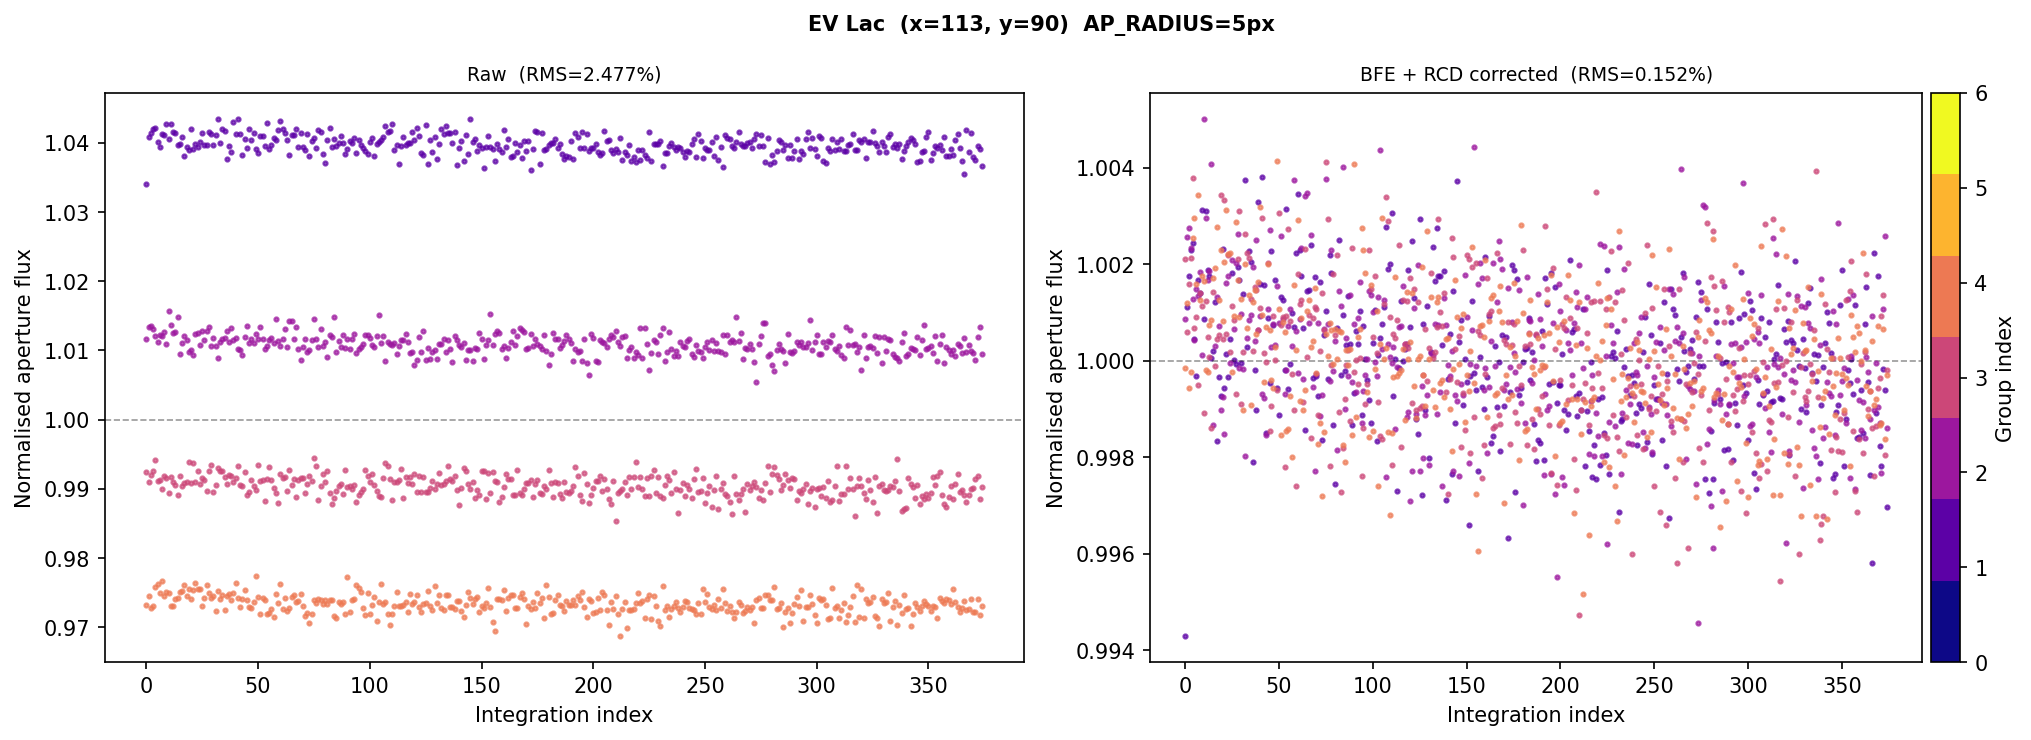
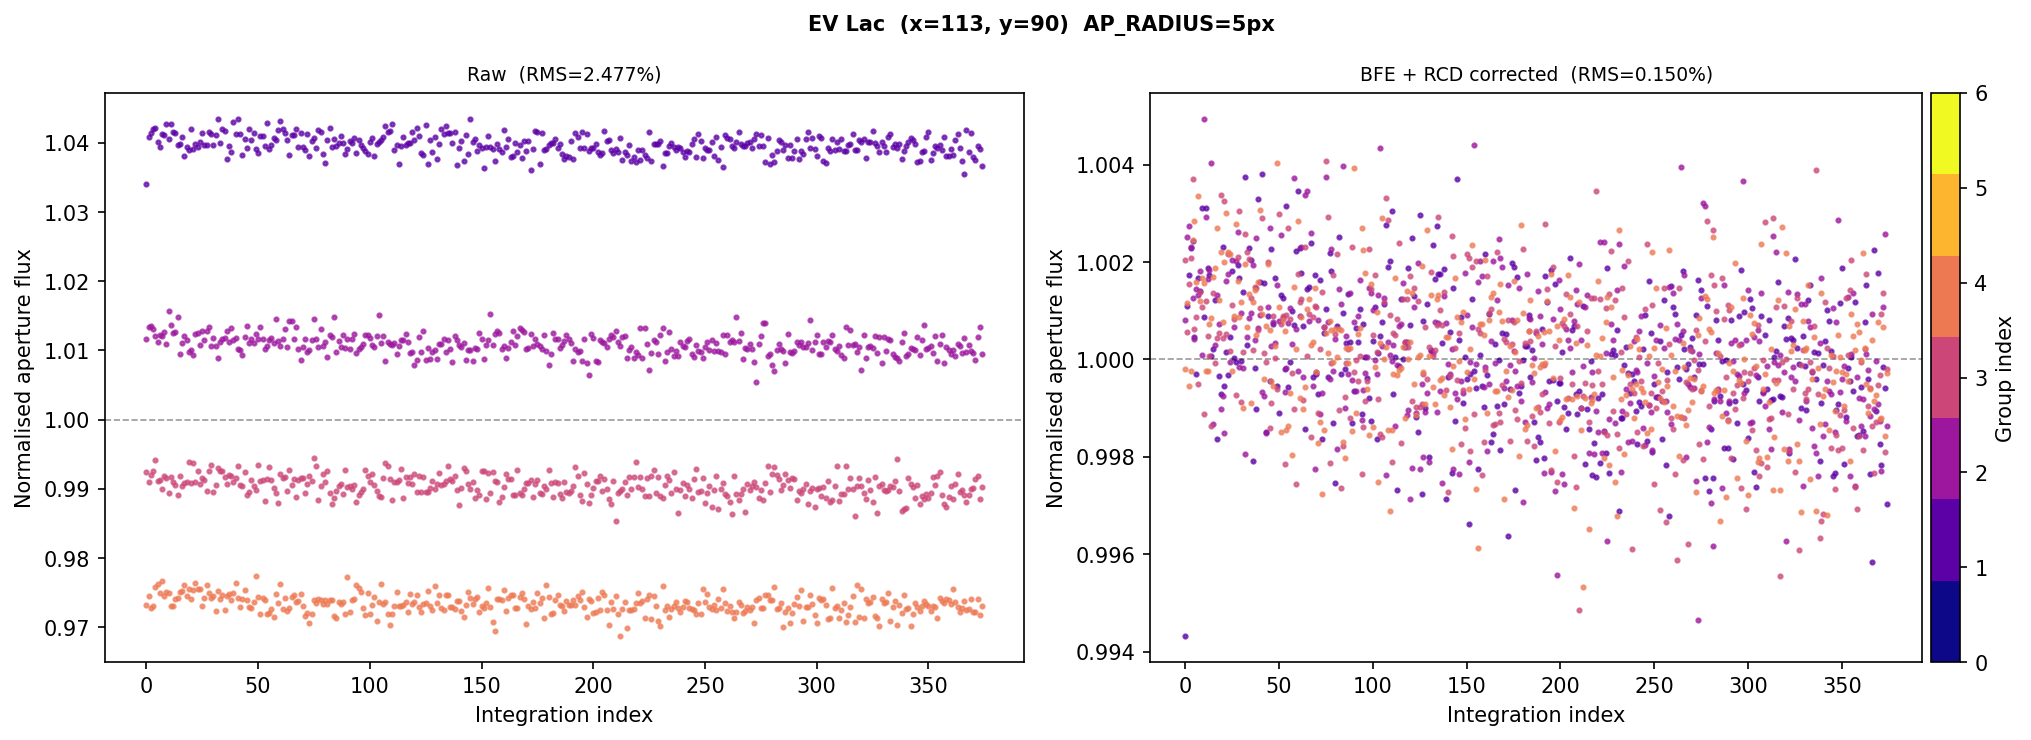
Iterative flux-conserving BFE correction, SNR-based fit_r, weighted default alpha

diff --git a/ramp_correction.py b/ramp_correction.py
@@ -271,9 +271,9 @@ def correct_reset_decay(cube, method='median', mask=None, mask_dilation=0,
     return cube_cor
 
 
-def fit_bfe_params(cube, alpha_bfe=2.783, bg_mask=None, sci_mask=None,
+def fit_bfe_params(cube, alpha_bfe=2.797, bg_mask=None, sci_mask=None,
                    bfe_early_groups=None, bfe_late_groups=None,
-                   ap_radius=5, cut=20, fit_r=10, verbose=False):
+                   ap_radius=5, cut=20, fit_r=None, verbose=False):
     """
     Find the brightest source in the image and fit A_bfe via the forward model.
 
@@ -420,40 +420,74 @@ def fit_bfe_params(cube, alpha_bfe=2.783, bg_mask=None, sci_mask=None,
     noise_diff = np.clip(noise_diff, noise_diff[noise_diff > 0].min() * 0.1, None)
 
     yy_c, xx_c = np.mgrid[:2*cut+1, :2*cut+1]
-    fit_mask = np.sqrt((yy_c - cut)**2 + (xx_c - cut)**2) <= fit_r
+    r_map_c = np.sqrt((yy_c - cut)**2 + (xx_c - cut)**2)
+
+    if fit_r is None:
+        snr_profile = np.array([
+            np.mean(np.abs(obs_diff[np.round(r_map_c).astype(int) == ri])) /
+            np.mean(noise_diff[np.round(r_map_c).astype(int) == ri])
+            for ri in range(1, cut)
+        ])
+        above = np.where(snr_profile > 2.0)[0]
+        fit_r = max(5, int(above[-1]) + 1) if len(above) > 0 else 5
+        if verbose:
+            print(f'  Auto fit_r = {fit_r} px (SNR-based)')
+
+    fit_mask = r_map_c <= fit_r
 
     ii, jj = np.mgrid[-kh:kh+1, -kh:kh+1].astype(float)
     r = np.sqrt(ii**2 + jj**2)
-    with np.errstate(divide='ignore', invalid='ignore'):
-        K = np.where(r > 0, -1.0 / r**alpha_bfe, 0.0)
-    K[kh, kh] = -K.sum()
 
-    def _simulate(A_bfe_val):
+    def _make_kernel(al):
+        with np.errstate(divide='ignore', invalid='ignore'):
+            Kk = np.where(r > 0, -1.0 / r**al, 0.0)
+        Kk[kh, kh] = -Kk.sum()
+        return Kk
+
+    def _simulate(A_bfe_val, al=alpha_bfe):
+        Kk = _make_kernel(al)
         Q = np.zeros((nyc, nxc))
         grads_s = np.zeros((n_grads, nyc, nxc))
         for g in range(n_grads):
             tg = rate_c + Adec_c * np.exp(-g / tau)
             if g == 0:
                 tg = tg - delta_c
-            KQ = fftconvolve(Q, K, mode='same')
+            KQ = fftconvolve(Q, Kk, mode='same')
             grads_s[g] = tg * (1.0 - A_bfe_val * KQ)
             Q += tg
         return grads_s
 
-    def _objective(log_A):
-        grads_s = _simulate(10**log_A)
-        sim_diff = _cutout(grads_s, bfe_late_groups) - _cutout(grads_s, bfe_early_groups)
-        return np.sum((((sim_diff - obs_diff) / noise_diff)[fit_mask])**2)
+    if alpha_bfe is None:
+        from scipy.optimize import minimize as _minimize
+        alpha0 = 2.797
 
-    result = minimize_scalar(_objective, bounds=(-9, -4), method='bounded')
-    A_bfe_fit = 10**result.x
-    if verbose:
-        print(f'  A_bfe = {A_bfe_fit:.4e}  (alpha fixed at {alpha_bfe})')
+        def _objective_2d(p):
+            log_A, al = p
+            grads_s = _simulate(10**log_A, al)
+            sim_diff = _cutout(grads_s, bfe_late_groups) - _cutout(grads_s, bfe_early_groups)
+            return np.sum((((sim_diff - obs_diff) / noise_diff)[fit_mask])**2)
 
-    return A_bfe_fit, sx, sy
+        res = _minimize(_objective_2d, x0=[np.log10(1e-6), alpha0], method='Powell',
+                        options={'xtol': 1e-8, 'ftol': 1e-12, 'maxiter': 50000})
+        log_A_fit, alpha_fit = res.x
+        A_bfe_fit = 10**log_A_fit
+        if verbose:
+            print(f'  A_bfe = {A_bfe_fit:.4e}  alpha = {alpha_fit:.4f}  (both fitted)')
+        return A_bfe_fit, alpha_fit, sx, sy
+    else:
+        def _objective(log_A):
+            grads_s = _simulate(10**log_A)
+            sim_diff = _cutout(grads_s, bfe_late_groups) - _cutout(grads_s, bfe_early_groups)
+            return np.sum((((sim_diff - obs_diff) / noise_diff)[fit_mask])**2)
+
+        result = minimize_scalar(_objective, bounds=(-9, -4), method='bounded')
+        A_bfe_fit = 10**result.x
+        if verbose:
+            print(f'  A_bfe = {A_bfe_fit:.4e}  (alpha fixed at {alpha_bfe})')
+        return A_bfe_fit, sx, sy
 
 
-def correct_bfe_rcd(cube, A_bfe=1.035e-6, alpha_bfe=2.783,
+def correct_bfe_rcd(cube, A_bfe=1.035e-6, alpha_bfe=2.797,
                     bg_mask=None, late_groups=None, verbose=False,
                     fit_bfe=False, sci_mask=None,
                     bfe_early_groups=None, bfe_late_groups=None,
@@ -527,14 +561,20 @@ def correct_bfe_rcd(cube, A_bfe=1.035e-6, alpha_bfe=2.783,
     if fit_bfe:
         if verbose:
             print('Fitting A_bfe from brightest source...')
-        A_bfe, _sx, _sy = fit_bfe_params(
-            cube, alpha_bfe=alpha_bfe, bg_mask=bg_mask, sci_mask=sci_mask,
+        fit_result = fit_bfe_params(
+            cube, alpha_bfe=alpha_bfe,
+            bg_mask=bg_mask, sci_mask=sci_mask,
             bfe_early_groups=bfe_early_groups, bfe_late_groups=bfe_late_groups,
             ap_radius=ap_radius, cut=cut, fit_r=fit_r, verbose=verbose)
+        A_bfe, _sx, _sy = fit_result
         if verbose:
             print(f'Using fitted A_bfe={A_bfe:.4e} at x={_sx}, y={_sy}')
 
-    # Step 1: causal BFE inversion over all gradients
+    # Step 1: causal iterative BFE correction — flux conserving
+    # Forward model: grad_obs = true_grad - A * K ⊛ (Q * true_grad)
+    # Iterative inversion: true_grad^(n+1) = grad_obs + A * K ⊛ (Q * true_grad^(n))
+    # Since K sums to zero, K̂(0)=0 → total image flux is exactly conserved.
+    N_ITER = 3
     kh = 20
     ii, jj = np.mgrid[-kh:kh+1, -kh:kh+1].astype(float)
     r = np.sqrt(ii**2 + jj**2)
@@ -547,9 +587,12 @@ def correct_bfe_rcd(cube, A_bfe=1.035e-6, alpha_bfe=2.783,
     for g in range(n_grads_all):
         if g > 0:
             Q_med = Q_med + np.median(grads_bfe[:, g-1], axis=0)
-        KQ = fftconvolve(Q_med, K, mode='same')
-        factor = np.where(1.0 - A_bfe * KQ > 0.05, 1.0 - A_bfe * KQ, 1.0)
-        grads_bfe[:, g] = grads_raw[:, g] / factor[None]
+        med_obs_g = np.median(grads_raw[:, g], axis=0)
+        true_grad_est = med_obs_g.copy()
+        for _ in range(N_ITER):
+            true_grad_est = med_obs_g + A_bfe * fftconvolve(Q_med * true_grad_est, K, mode='same')
+        KQg = fftconvolve(Q_med * true_grad_est, K, mode='same')
+        grads_bfe[:, g] = grads_raw[:, g] + A_bfe * KQg[None]
         if verbose:
             print(f'  BFE g={g}', end='\r')
     if verbose:

diff --git a/fit_combined_model_evlac.py b/fit_combined_model_evlac.py
@@ -18,7 +18,7 @@ import matplotlib.pyplot as plt
 from pathlib import Path
 from astropy.io import fits
 from scipy.signal import fftconvolve
-from scipy.optimize import minimize_scalar, curve_fit
+from scipy.optimize import minimize, curve_fit
 
 DATA = Path('/Users/rri38/Documents/work/code/jwst/ramps/evlac/MAST_2026-05-21T23_53_57.816Z/JWST/jw06122010001_02101_00001_mirimage_uncal.fits')
 OUT = Path(__file__).parent
@@ -120,20 +120,19 @@ def simulate(A_bfe, alpha):
         Q += true_grad
     return grads_s
 
-ALPHA_FIXED = 2.8
-
-def objective(log_A_arr):
-    grads_s = simulate(10**log_A_arr[0], ALPHA_FIXED)
+def objective(p):
+    log_A, alpha = p
+    grads_s = simulate(10**log_A, alpha)
     sim_diff = cutout_psf(grads_s, LATE) - cutout_psf(grads_s, EARLY)
     return np.sum((((sim_diff - obs_diff) / noise_diff)[fit_mask])**2)
 
 # ---------------------------------------------------------------------------
 # Optimise
 # ---------------------------------------------------------------------------
-print('Running bounded scalar minimisation (alpha fixed)...')
-res_scalar = minimize_scalar(lambda la: objective([la]), bounds=(-9, -4), method='bounded')
-log_A_fit = res_scalar.x
-alpha_fit = ALPHA_FIXED
+print('Running Powell minimisation (log_A and alpha free)...')
+result = minimize(objective, x0=[-6.5, 2.8], method='Powell',
+                  options={'xtol': 1e-8, 'ftol': 1e-12, 'maxiter': 50000})
+log_A_fit, alpha_fit = result.x
 A_bfe_fit = 10**log_A_fit
 print(f'Final: A={A_bfe_fit:.4e}, alpha={alpha_fit:.4f}')
 

diff --git a/fit_combined_model_trappist.py b/fit_combined_model_trappist.py
@@ -34,7 +34,7 @@ CUT = 20       # half-side of PSF cutout
 AP_RADIUS = 5
 EARLY = [2, 3, 4]
 LATE = [9, 10, 11]
-FIT_R = 10
+FIT_R = 5
 N_GROUPS = 14
 
 # Wolf-359 fitted parameters for comparison
